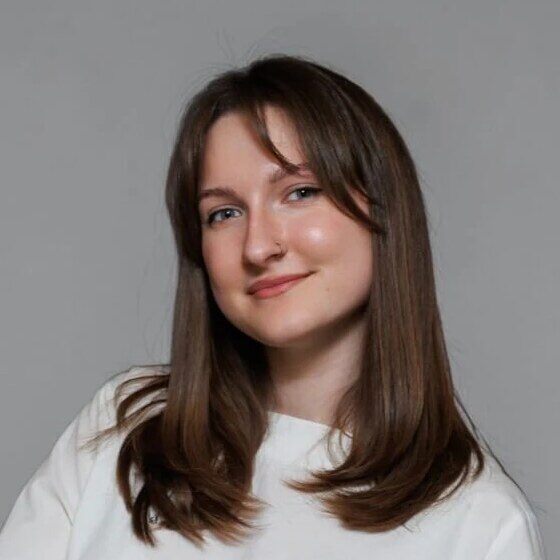
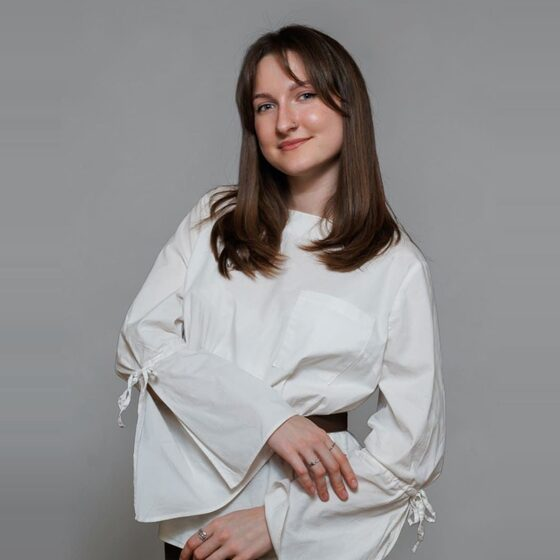
Управління: картка-панель засновника, нове фото Дар'ї

diff --git a/index.html b/index.html
@@ -355,7 +355,8 @@ dialog.nd .pp-body p{margin-top:10px}
 .mem{min-width:0;text-align:left}
 .team-cols{--pw:min(170px,calc((100cqi - 56px) / 3))}
 @container site (min-width:760px){.team-cols{--pw:min(170px,calc((100cqi - 128px) / 3))}}
-@container site (min-width:760px){.mem.has-more .mx{margin-bottom:calc(var(--pw) * -.45)}}
+@container site (min-width:480px){.mem.has-more .mx{margin-bottom:calc(var(--pw) * -.45)}
+  .team-cols > .mem.has-more.sgc{display:flex;flex-direction:column;gap:var(--ig,10px);grid-row:auto;align-self:start}}
 .mem .pic{aspect-ratio:1/1;width:var(--pw);overflow:hidden;background:#fff;display:grid;place-items:center;border-radius:50%;box-shadow:0 0 0 6px #fff,0 0 0 7px var(--line)}
 .mem .pic img{width:100%;height:100%;object-fit:cover}
 .mem .pic.nophoto{background:radial-gradient(70% 70% at 50% 40%,#fff,var(--mist))}
@@ -363,6 +364,9 @@ dialog.nd .pp-body p{margin-top:10px}
 .mem .pic .ini{font:800 clamp(26px,8cqi,60px)/1 var(--f-head);color:#fff}
 .mem h3{font:800 clamp(14px,2.6cqi,20px)/1.2 var(--f-head)}
 .mem p{font-size:14px;color:var(--grey);line-height:1.35}
+.mem .role i{font-style:normal;margin:0 .45em;color:var(--orange)}
+.mem .role .org{white-space:nowrap}
+@container site (max-width:999px){.mem .role i{display:none}.mem .role .org{display:block}}
 .mem .mx{display:none}
 .mem.has-more{--r:4;cursor:pointer;outline-offset:6px}
 .mem.has-more .mx{display:grid;gap:8px;align-content:start;opacity:0;pointer-events:none;transition:opacity .3s,transform .35s;font-size:14px;line-height:1.45;color:#3E4652}
@@ -373,6 +377,33 @@ dialog.nd .pp-body p{margin-top:10px}
 @media (hover:hover){.mem .mx .soc2 a:hover{background:var(--orange);border-color:var(--orange);color:var(--ink);transform:translateY(-3px)}}
 .mem .mx .soc2 a:focus-visible{background:var(--orange);border-color:var(--orange);outline-offset:2px}
 .mem .mx .soc2 svg{width:18px;height:18px}
+.mem.has-more .mx{position:relative;z-index:2}
+.mem .mx-in{display:grid;gap:10px;align-content:start;padding-top:12px;border-top:1px solid #E3E9F0}
+.mem.has-more{position:relative;z-index:0}
+.mem.has-more::before{content:"";position:absolute;inset:-16px;z-index:-1;background:#fff;border:1px solid var(--line);border-top:3px solid var(--orange);box-shadow:0 20px 40px -12px rgba(27,40,70,.28);opacity:0;transition:opacity .3s}
+@media (hover:hover){.mem.has-more:hover,.mem.has-more:focus-within{z-index:3}.mem.has-more:hover::before,.mem.has-more:focus-within::before{opacity:1}}
+.mem.has-more.open{z-index:3}.mem.has-more.open::before{opacity:1}
+.mem .mx p{color:#3E4652;line-height:1.45}
+.mem .mx .mx-lead{font:600 14px/1.4 var(--f-body);color:var(--ink)}
+.mem .mx .mx-row{display:flex;align-items:center;gap:12px;padding:8px 10px;background:var(--mist);border:1px solid #D9E2EC;color:var(--ink);text-decoration:none;transition:border-color .25s,background .25s}
+.mem .mx .mx-row small{display:block;font:500 12px/1.3 var(--f-mono);letter-spacing:.08em;text-transform:uppercase;color:var(--blue-d)}
+.mem .mx .mx-row b{display:block;font:700 14px/1.3 var(--f-body);color:var(--ink)}
+.mem .mx .mx-row > span:not([class]){min-width:0;overflow-wrap:anywhere}
+.mem .mx,.mem .mx-in{min-width:0}
+@container site (max-width:999px) and (min-width:480px){.mem .mx .mx-logo{width:56px;height:40px;padding:4px}.mem .mx .mx-row{gap:8px;padding:8px}.mem .mx .mx-go{display:none}}
+.mem .mx .mx-ic{flex:none;width:36px;height:36px;display:grid;place-items:center;background:#fff;color:var(--blue-d)}
+.mem .mx .mx-ic svg{width:18px;height:18px}
+.mem .mx .mx-logo{flex:none;width:96px;height:52px;display:grid;place-items:center;padding:6px;background:#fff;border:1px solid var(--line)}
+.mem .mx .mx-logo img{max-width:100%;max-height:100%;width:auto;height:auto}
+.mem .mx .mx-go{margin-left:auto;flex:none;color:var(--orange-t);transition:transform .25s}
+.mem .mx .mx-go svg{width:20px;height:20px}
+@media (hover:hover){.mem .mx .mx-row:hover{border-color:var(--orange);background:#FFF3EE}.mem .mx .mx-row:hover .mx-go{transform:translateX(3px)}}
+.mem .mx .mx-row:focus-visible{outline:2px solid var(--orange);outline-offset:2px}
+.mem .mx .mx-fact{display:flex;align-items:center;gap:12px}
+.mem .mx .mx-fact b{flex:none;font:800 36px/1 var(--f-head);color:var(--orange-t);letter-spacing:-.02em}
+.mem .mx .mx-fact span{font-size:13px;line-height:1.35;color:#3E4652}
+.mem .mx .mx-q{position:relative;margin-top:2px;padding:12px 0 0 14px;border-top:1px solid #E3E9F0;font-size:13px;line-height:1.4;font-style:italic;color:var(--ink)}
+.mem .mx .mx-q::before{content:"";position:absolute;left:0;top:14px;bottom:2px;width:3px;background:var(--blue)}
 @media (hover:hover){.mem.has-more:hover .pic,.mem.has-more:focus-within .pic{transform:scale(.55)}
   .mem.has-more:hover h3,.mem.has-more:hover > p,.mem.has-more:hover .mx,.mem.has-more:focus-within h3,.mem.has-more:focus-within > p,.mem.has-more:focus-within .mx{transform:translateY(calc(var(--pw) * -.45))}
   .mem.has-more:hover .mx,.mem.has-more:focus-within .mx{opacity:1;pointer-events:auto}}
@@ -387,8 +418,10 @@ dialog.nd .pp-body p{margin-top:10px}
   .mem p{align-self:start}
   .cols > .mem.has-more.sgc{grid-template-rows:auto auto auto}
   .mem.has-more .pic,.mem.has-more.open .pic,.mem.has-more.open h3,.mem.has-more.open > p{transform:none!important}
-  .mem.has-more .mx{grid-column:2;display:grid;max-height:0;overflow:hidden;opacity:0;visibility:hidden;transform:none!important;transition:max-height .45s ease,opacity .35s ease,margin .45s ease,visibility 0s linear .45s}
-  .mem.has-more.open .mx{max-height:420px;opacity:1;visibility:visible;margin-top:8px;transition-delay:0s}
+  .mem.has-more .mx{grid-column:1 / -1;display:grid;max-height:0;overflow:hidden;opacity:0;visibility:hidden;transform:none!important;transition:max-height .45s ease,opacity .35s ease,margin .45s ease,visibility 0s linear .45s}
+  .mem.has-more::before{inset:-12px}
+  .mem.has-more:not(.open):hover::before,.mem.has-more:not(.open):focus-within::before{opacity:0}
+  .mem.has-more.open .mx{max-height:720px;opacity:1;visibility:visible;margin-top:12px;transition-delay:0s}
   .mem.has-more:hover h3,.mem.has-more:hover > p,.mem.has-more:hover .pic,.mem.has-more:focus-within h3,.mem.has-more:focus-within > p,.mem.has-more:focus-within .pic{transform:none!important}
   .mem.has-more:not(.open):hover .mx,.mem.has-more:not(.open):focus-within .mx{opacity:0;max-height:0}
 }
@@ -672,7 +705,7 @@ body.show-ph .ph-box{outline:2px dashed var(--alert);outline-offset:-4px}
     <div class="nslider" data-slider data-rv>
       <div class="nvp" tabindex="0" aria-roledescription="слайдер" aria-label="Новини Фонду">
         <div class="ntrack">
[4 lines of base64/hex data omitted]
         </div>
@@ -738,9 +771,9 @@ body.show-ph .ph-box{outline:2px dashed var(--alert);outline-offset:-4px}
   <div class="wrap">
     <div class="head" data-rv><h2 class="h2" id="te-h"><span class="hl">Управління</span></h2></div>
     <div class="cols team-cols">
[1 lines of base64/hex data omitted]
-      <article class="mem has-more sgc" data-rv><div class="pic nophoto"><img src="logo/mark.svg" alt="" width="521" height="622" loading="lazy" decoding="async"></div><h3>Світлана Дмитренко</h3><p>Засновниця</p><div class="mx"><p>Засновниця Міжнародного благодійного фонду розвитку інтелектуального капіталу України «ІНТІТА ФАУНДЕЙШЕН»</p><p>Контакт для партнерів: <a href="tel:+380966343531">+38 (096) 634-35-31</a></p></div></article>
[2 lines of base64/hex data omitted]
+      <article class="mem has-more sgc" data-rv><div class="pic nophoto"><img src="logo/mark.svg" alt="" width="521" height="622" loading="lazy" decoding="async"></div><h3>Світлана Дмитренко</h3><p class="role">Засновниця<i aria-hidden="true">|</i><span class="org">БФ INTITA Foundation</span></p><div class="mx"><div class="mx-in"><p class="mx-lead">Засновниця Міжнародного благодійного фонду розвитку інтелектуального капіталу України «ІНТІТА ФАУНДЕЙШЕН»</p><a class="mx-row" href="tel:+380966343531"><span class="mx-ic"><svg class="i" viewBox="0 0 24 24" fill="none" stroke="currentColor" stroke-width="1.7" stroke-linecap="round" stroke-linejoin="round" aria-hidden="true" focusable="false"><path d="M5 4h4l2 5-2.5 1.5a11 11 0 005 5L15 13l5 2v3a2 2 0 01-2 2A16 16 0 013 6a2 2 0 012-2z"/></svg></span><span><small>Контакт для партнерів</small><b>+38 (096) 634-35-31</b></span></a></div></div></article>
[1 lines of base64/hex data omitted]
     </div>
   </div>
 </section>

diff --git a/en.html b/en.html
@@ -355,7 +355,8 @@ dialog.nd .pp-body p{margin-top:10px}
 .mem{min-width:0;text-align:left}
 .team-cols{--pw:min(170px,calc((100cqi - 56px) / 3))}
 @container site (min-width:760px){.team-cols{--pw:min(170px,calc((100cqi - 128px) / 3))}}
-@container site (min-width:760px){.mem.has-more .mx{margin-bottom:calc(var(--pw) * -.45)}}
+@container site (min-width:480px){.mem.has-more .mx{margin-bottom:calc(var(--pw) * -.45)}
+  .team-cols > .mem.has-more.sgc{display:flex;flex-direction:column;gap:var(--ig,10px);grid-row:auto;align-self:start}}
 .mem .pic{aspect-ratio:1/1;width:var(--pw);overflow:hidden;background:#fff;display:grid;place-items:center;border-radius:50%;box-shadow:0 0 0 6px #fff,0 0 0 7px var(--line)}
 .mem .pic img{width:100%;height:100%;object-fit:cover}
 .mem .pic.nophoto{background:radial-gradient(70% 70% at 50% 40%,#fff,var(--mist))}
@@ -363,6 +364,9 @@ dialog.nd .pp-body p{margin-top:10px}
 .mem .pic .ini{font:800 clamp(26px,8cqi,60px)/1 var(--f-head);color:#fff}
 .mem h3{font:800 clamp(14px,2.6cqi,20px)/1.2 var(--f-head)}
 .mem p{font-size:14px;color:var(--grey);line-height:1.35}
+.mem .role i{font-style:normal;margin:0 .45em;color:var(--orange)}
+.mem .role .org{white-space:nowrap}
+@container site (max-width:999px){.mem .role i{display:none}.mem .role .org{display:block}}
 .mem .mx{display:none}
 .mem.has-more{--r:4;cursor:pointer;outline-offset:6px}
 .mem.has-more .mx{display:grid;gap:8px;align-content:start;opacity:0;pointer-events:none;transition:opacity .3s,transform .35s;font-size:14px;line-height:1.45;color:#3E4652}
@@ -373,6 +377,33 @@ dialog.nd .pp-body p{margin-top:10px}
 @media (hover:hover){.mem .mx .soc2 a:hover{background:var(--orange);border-color:var(--orange);color:var(--ink);transform:translateY(-3px)}}
 .mem .mx .soc2 a:focus-visible{background:var(--orange);border-color:var(--orange);outline-offset:2px}
 .mem .mx .soc2 svg{width:18px;height:18px}
+.mem.has-more .mx{position:relative;z-index:2}
+.mem .mx-in{display:grid;gap:10px;align-content:start;padding-top:12px;border-top:1px solid #E3E9F0}
+.mem.has-more{position:relative;z-index:0}
+.mem.has-more::before{content:"";position:absolute;inset:-16px;z-index:-1;background:#fff;border:1px solid var(--line);border-top:3px solid var(--orange);box-shadow:0 20px 40px -12px rgba(27,40,70,.28);opacity:0;transition:opacity .3s}
+@media (hover:hover){.mem.has-more:hover,.mem.has-more:focus-within{z-index:3}.mem.has-more:hover::before,.mem.has-more:focus-within::before{opacity:1}}
+.mem.has-more.open{z-index:3}.mem.has-more.open::before{opacity:1}
+.mem .mx p{color:#3E4652;line-height:1.45}
+.mem .mx .mx-lead{font:600 14px/1.4 var(--f-body);color:var(--ink)}
+.mem .mx .mx-row{display:flex;align-items:center;gap:12px;padding:8px 10px;background:var(--mist);border:1px solid #D9E2EC;color:var(--ink);text-decoration:none;transition:border-color .25s,background .25s}
+.mem .mx .mx-row small{display:block;font:500 12px/1.3 var(--f-mono);letter-spacing:.08em;text-transform:uppercase;color:var(--blue-d)}
+.mem .mx .mx-row b{display:block;font:700 14px/1.3 var(--f-body);color:var(--ink)}
+.mem .mx .mx-row > span:not([class]){min-width:0;overflow-wrap:anywhere}
+.mem .mx,.mem .mx-in{min-width:0}
+@container site (max-width:999px) and (min-width:480px){.mem .mx .mx-logo{width:56px;height:40px;padding:4px}.mem .mx .mx-row{gap:8px;padding:8px}.mem .mx .mx-go{display:none}}
+.mem .mx .mx-ic{flex:none;width:36px;height:36px;display:grid;place-items:center;background:#fff;color:var(--blue-d)}
+.mem .mx .mx-ic svg{width:18px;height:18px}
+.mem .mx .mx-logo{flex:none;width:96px;height:52px;display:grid;place-items:center;padding:6px;background:#fff;border:1px solid var(--line)}
+.mem .mx .mx-logo img{max-width:100%;max-height:100%;width:auto;height:auto}
+.mem .mx .mx-go{margin-left:auto;flex:none;color:var(--orange-t);transition:transform .25s}
+.mem .mx .mx-go svg{width:20px;height:20px}
+@media (hover:hover){.mem .mx .mx-row:hover{border-color:var(--orange);background:#FFF3EE}.mem .mx .mx-row:hover .mx-go{transform:translateX(3px)}}
+.mem .mx .mx-row:focus-visible{outline:2px solid var(--orange);outline-offset:2px}
+.mem .mx .mx-fact{display:flex;align-items:center;gap:12px}
+.mem .mx .mx-fact b{flex:none;font:800 36px/1 var(--f-head);color:var(--orange-t);letter-spacing:-.02em}
+.mem .mx .mx-fact span{font-size:13px;line-height:1.35;color:#3E4652}
+.mem .mx .mx-q{position:relative;margin-top:2px;padding:12px 0 0 14px;border-top:1px solid #E3E9F0;font-size:13px;line-height:1.4;font-style:italic;color:var(--ink)}
+.mem .mx .mx-q::before{content:"";position:absolute;left:0;top:14px;bottom:2px;width:3px;background:var(--blue)}
 @media (hover:hover){.mem.has-more:hover .pic,.mem.has-more:focus-within .pic{transform:scale(.55)}
   .mem.has-more:hover h3,.mem.has-more:hover > p,.mem.has-more:hover .mx,.mem.has-more:focus-within h3,.mem.has-more:focus-within > p,.mem.has-more:focus-within .mx{transform:translateY(calc(var(--pw) * -.45))}
   .mem.has-more:hover .mx,.mem.has-more:focus-within .mx{opacity:1;pointer-events:auto}}
@@ -387,8 +418,10 @@ dialog.nd .pp-body p{margin-top:10px}
   .mem p{align-self:start}
   .cols > .mem.has-more.sgc{grid-template-rows:auto auto auto}
   .mem.has-more .pic,.mem.has-more.open .pic,.mem.has-more.open h3,.mem.has-more.open > p{transform:none!important}
-  .mem.has-more .mx{grid-column:2;display:grid;max-height:0;overflow:hidden;opacity:0;visibility:hidden;transform:none!important;transition:max-height .45s ease,opacity .35s ease,margin .45s ease,visibility 0s linear .45s}
-  .mem.has-more.open .mx{max-height:420px;opacity:1;visibility:visible;margin-top:8px;transition-delay:0s}
+  .mem.has-more .mx{grid-column:1 / -1;display:grid;max-height:0;overflow:hidden;opacity:0;visibility:hidden;transform:none!important;transition:max-height .45s ease,opacity .35s ease,margin .45s ease,visibility 0s linear .45s}
+  .mem.has-more::before{inset:-12px}
+  .mem.has-more:not(.open):hover::before,.mem.has-more:not(.open):focus-within::before{opacity:0}
+  .mem.has-more.open .mx{max-height:720px;opacity:1;visibility:visible;margin-top:12px;transition-delay:0s}
   .mem.has-more:hover h3,.mem.has-more:hover > p,.mem.has-more:hover .pic,.mem.has-more:focus-within h3,.mem.has-more:focus-within > p,.mem.has-more:focus-within .pic{transform:none!important}
   .mem.has-more:not(.open):hover .mx,.mem.has-more:not(.open):focus-within .mx{opacity:0;max-height:0}
 }
@@ -672,7 +705,7 @@ body.show-ph .ph-box{outline:2px dashed var(--alert);outline-offset:-4px}
     <div class="nslider" data-slider data-rv>
       <div class="nvp" tabindex="0" aria-roledescription="carousel" aria-label="Foundation news">
         <div class="ntrack">
[4 lines of base64/hex data omitted]
         </div>
@@ -738,9 +771,9 @@ body.show-ph .ph-box{outline:2px dashed var(--alert);outline-offset:-4px}
   <div class="wrap">
     <div class="head" data-rv><h2 class="h2" id="te-h"><span class="hl">Leadership</span></h2></div>
     <div class="cols team-cols">
[1 lines of base64/hex data omitted]
-      <article class="mem has-more sgc" data-rv><div class="pic nophoto"><img src="logo/mark.svg" alt="" width="521" height="622" loading="lazy" decoding="async"></div><h3>Svitlana Dmytrenko</h3><p>Founder</p><div class="mx"><p>Founder of the International Charitable Foundation for the Development of Ukraine's Intellectual Capital “INTITA FOUNDATION”</p><p>Contact for partners: <a href="tel:+380966343531">+38 (096) 634-35-31</a></p></div></article>
[2 lines of base64/hex data omitted]
+      <article class="mem has-more sgc" data-rv><div class="pic nophoto"><img src="logo/mark.svg" alt="" width="521" height="622" loading="lazy" decoding="async"></div><h3>Svitlana Dmytrenko</h3><p class="role">Founder<i aria-hidden="true">|</i><span class="org">INTITA Foundation</span></p><div class="mx"><div class="mx-in"><p class="mx-lead">Founder of the International Charitable Foundation for the Development of Ukraine's Intellectual Capital “INTITA FOUNDATION”</p><a class="mx-row" href="tel:+380966343531"><span class="mx-ic"><svg class="i" viewBox="0 0 24 24" fill="none" stroke="currentColor" stroke-width="1.7" stroke-linecap="round" stroke-linejoin="round" aria-hidden="true" focusable="false"><path d="M5 4h4l2 5-2.5 1.5a11 11 0 005 5L15 13l5 2v3a2 2 0 01-2 2A16 16 0 013 6a2 2 0 012-2z"/></svg></span><span><small>Contact for partners</small><b>+38 (096) 634-35-31</b></span></a></div></div></article>
[1 lines of base64/hex data omitted]
     </div>
   </div>
 </section>
